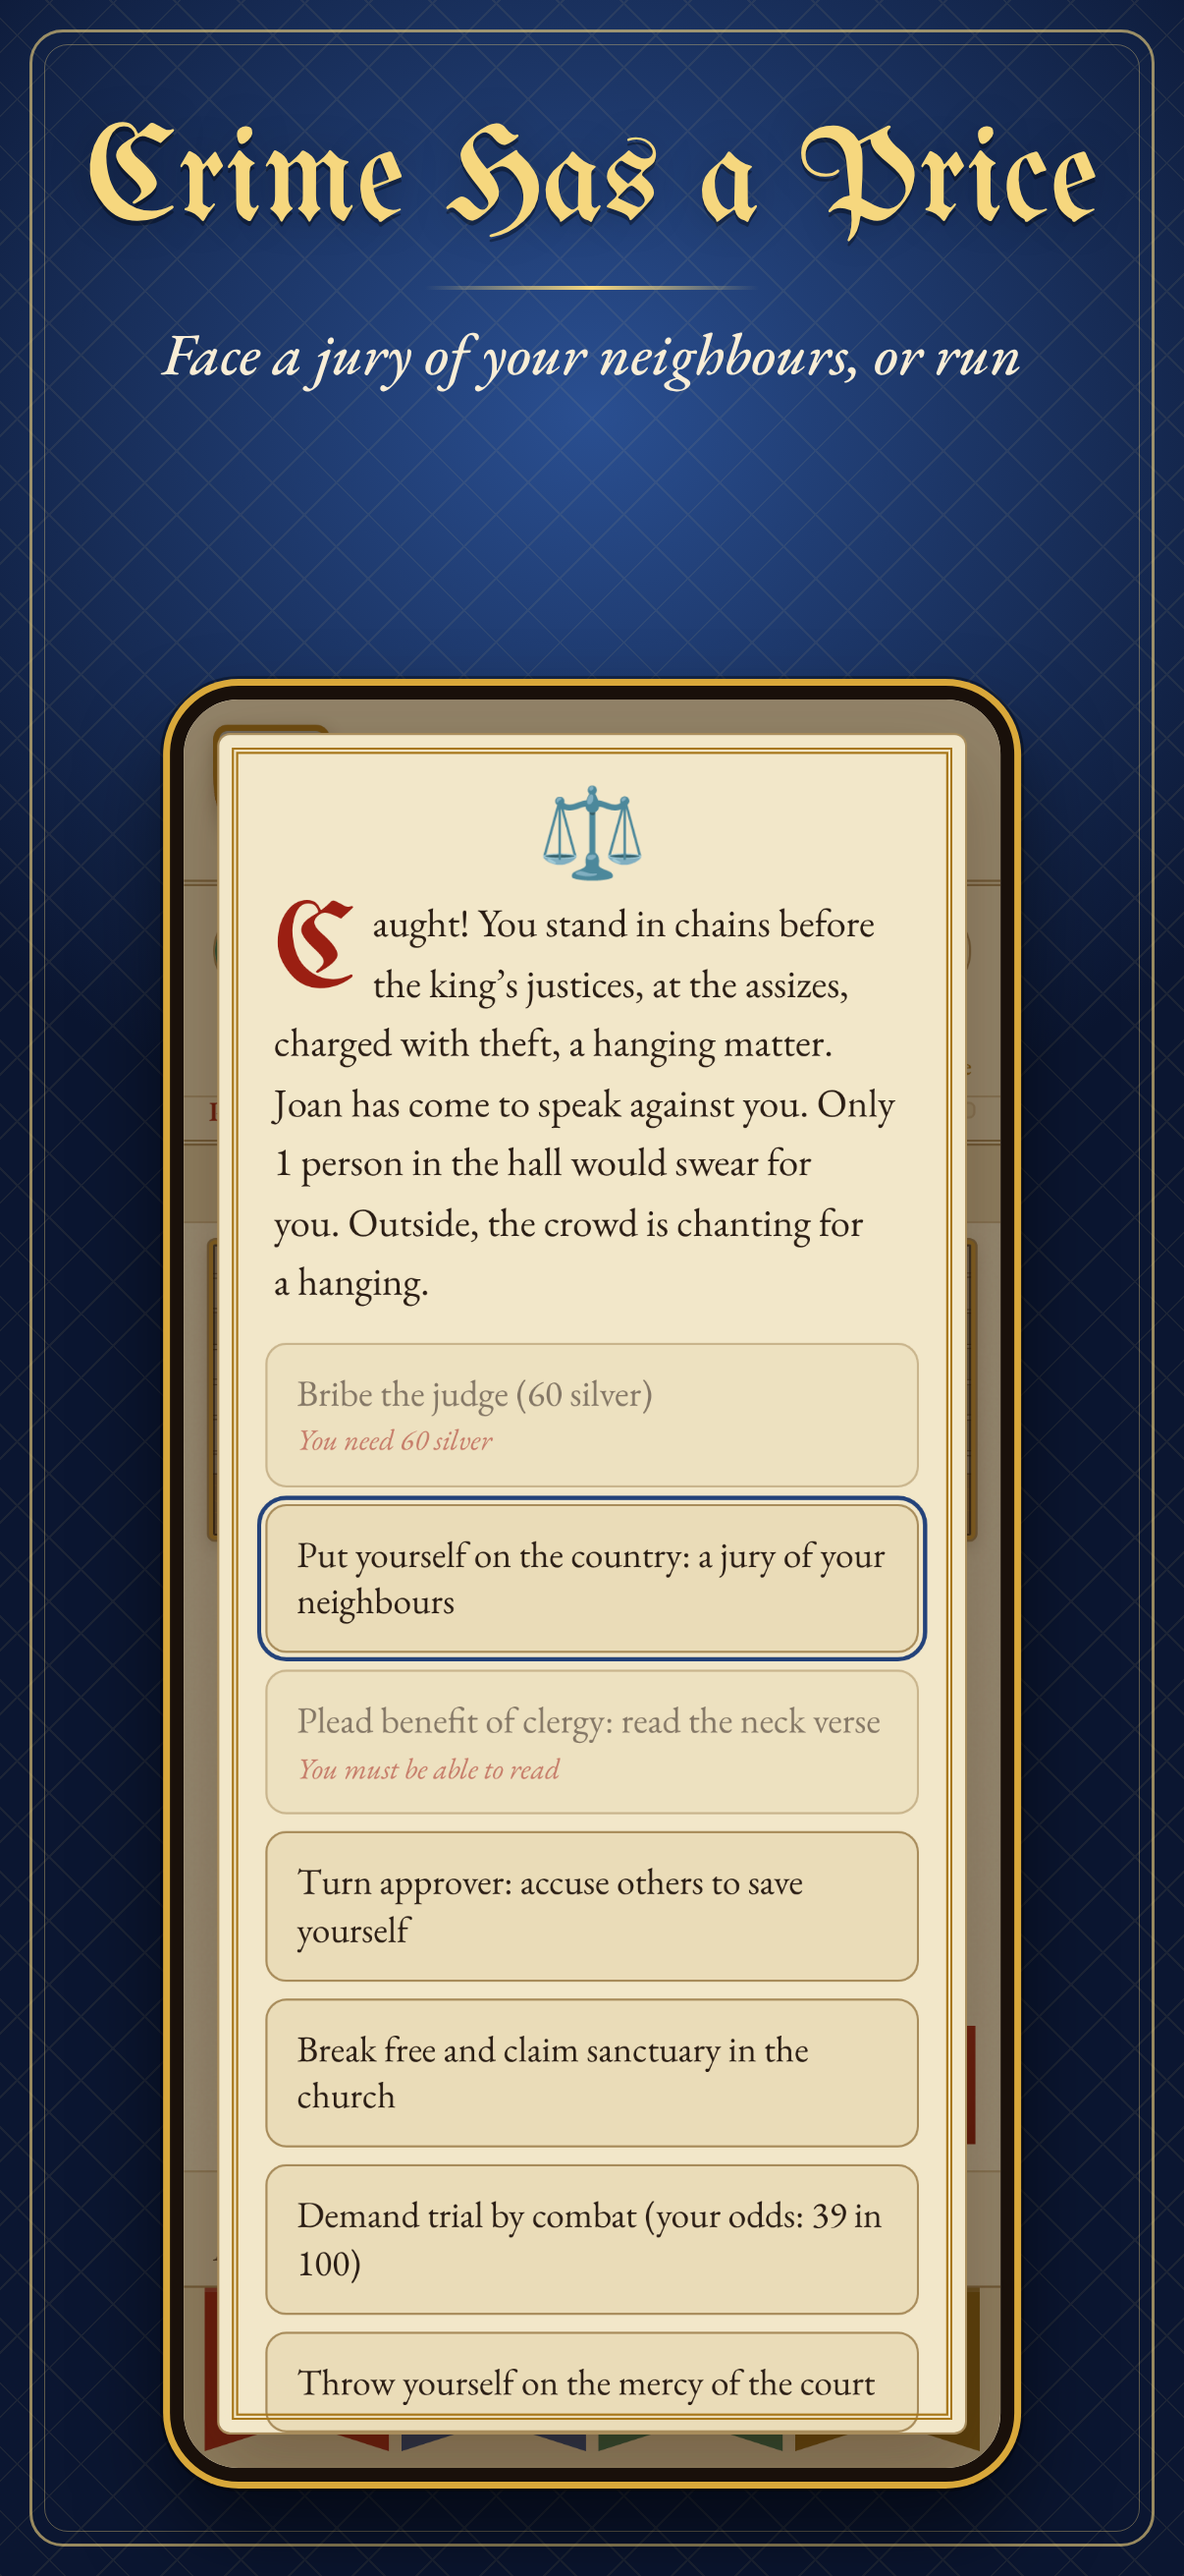
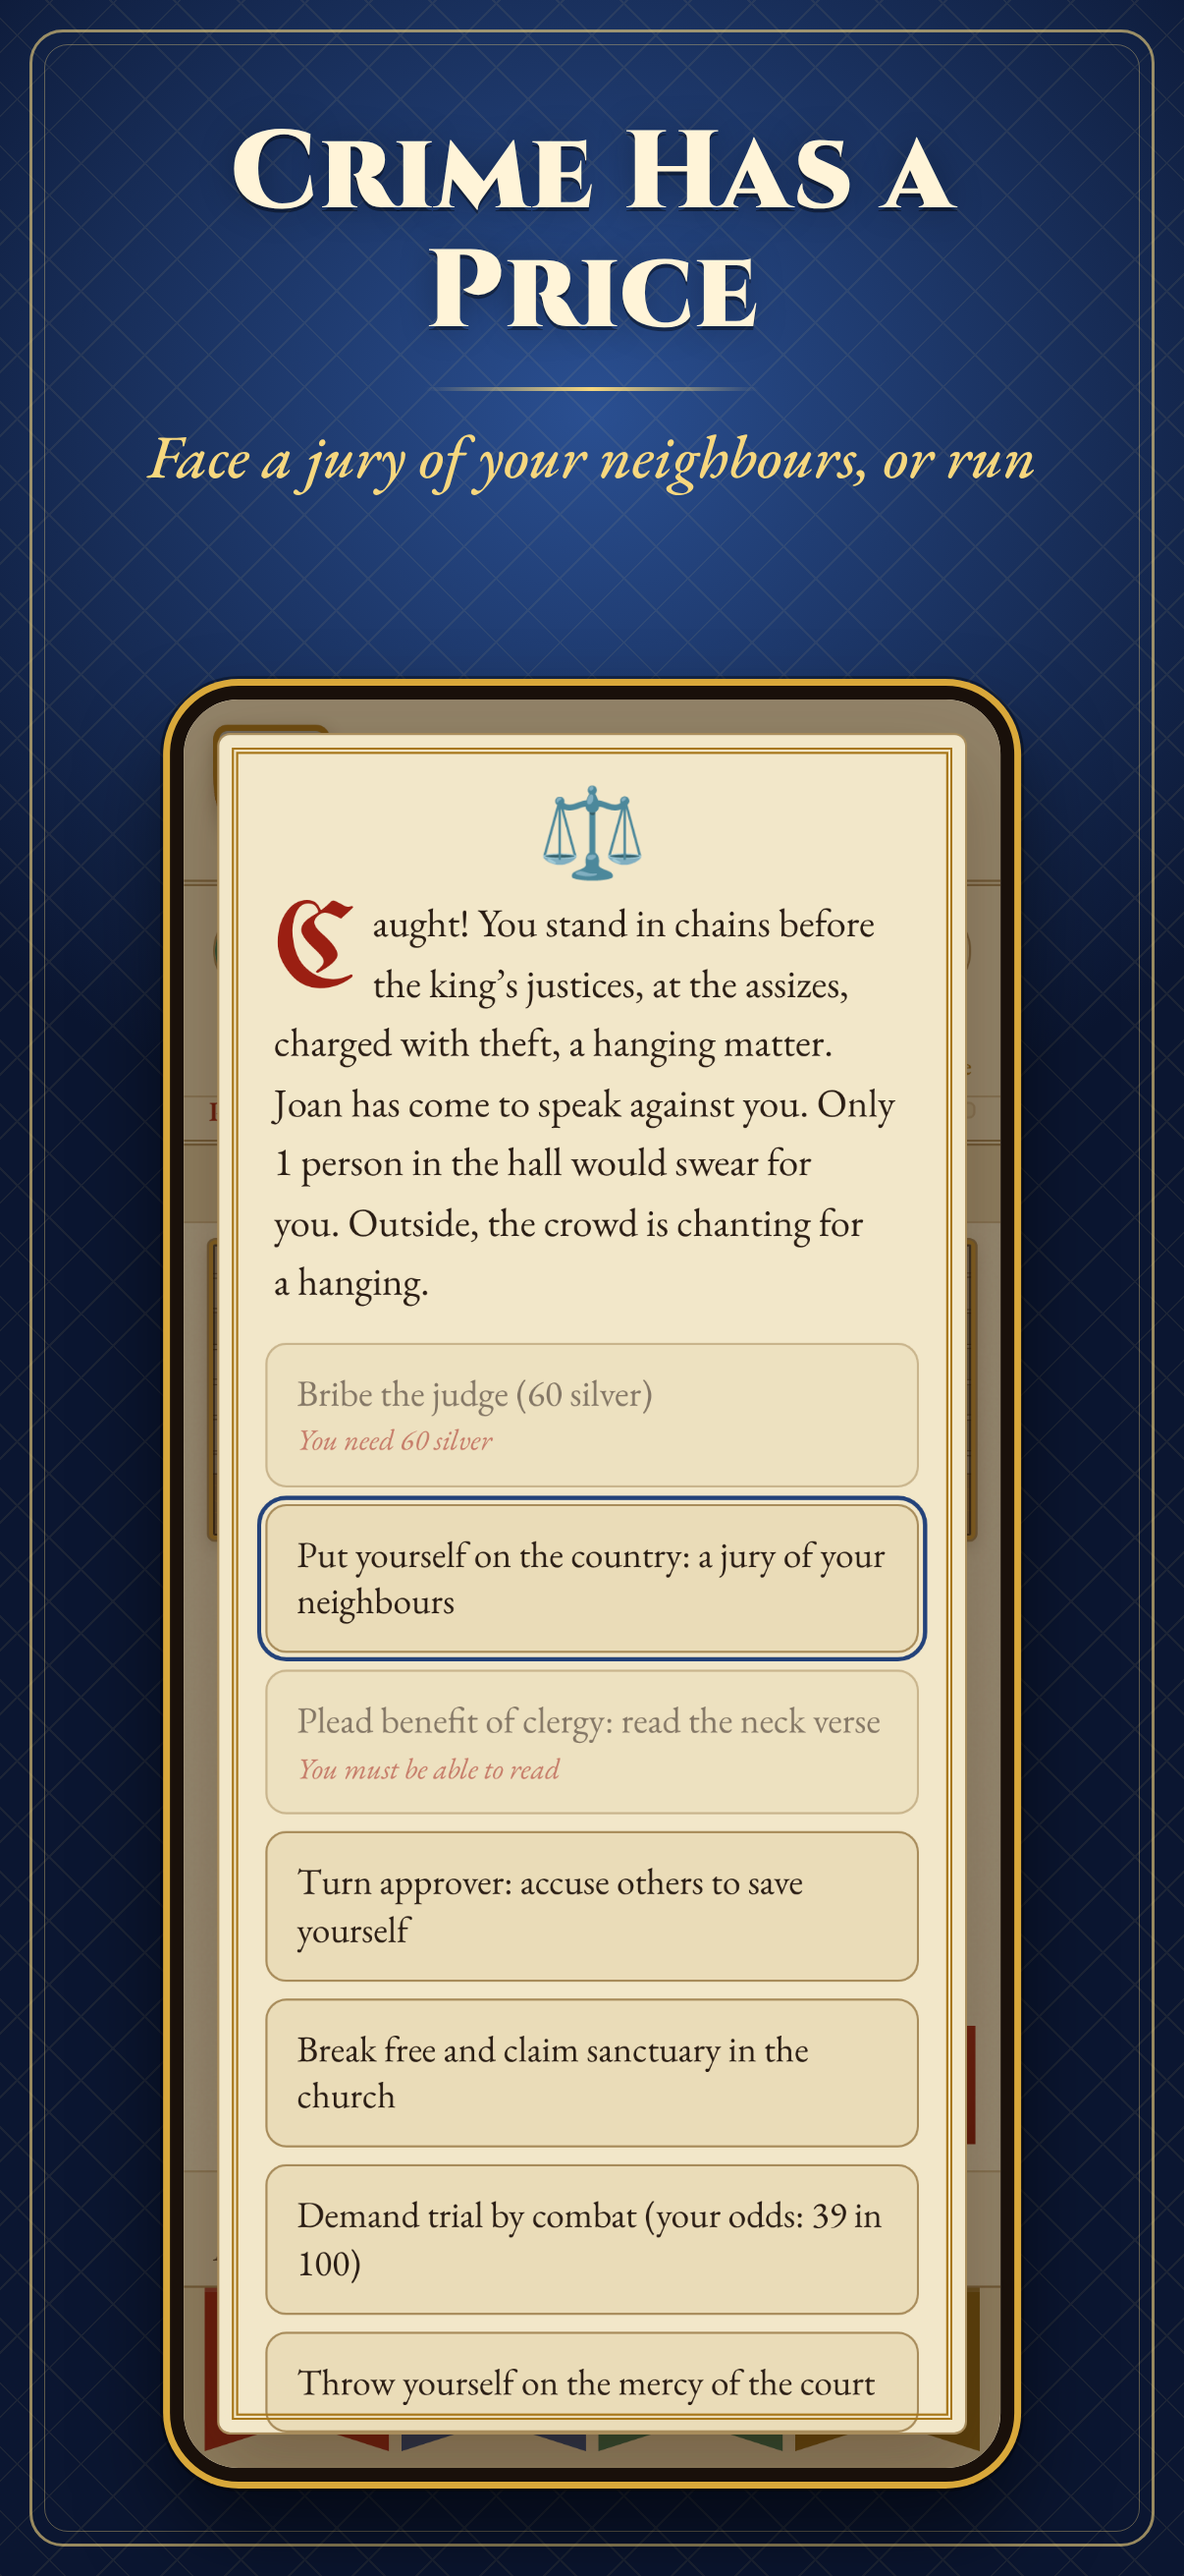
Store screenshots: easy-to-read headlines [skip ci]
The blackletter headlines were hard to read at App Store thumbnail size.
They are now in Cinzel (bold Roman capitals) in bright cream, with the
subtitles in gold Garamond italic.

Claude-Session: https://claude.ai/code/session_01Ng8y7vFwhLArsm3PAF3YVs

Changed region(s): [[0.0614, 0.0309, 0.9204, 0.1854], [0.1227, 0.1236, 0.2454, 0.1854], [0.7977, 0.1236, 0.859, 0.1854]]

diff --git a/store/tools/compose.js b/store/tools/compose.js
@@ -13,7 +13,7 @@ const SHOTS = [
   ['08-dynasty', '8-dynasty', 'Your Dynasty Lives On', 'When you die, carry on as your heir', BLUE],
 ];
 const page = (img, h1, sub, [c1, c2]) => `<!doctype html><html><head><meta charset="utf-8">
-<link href="https://fonts.googleapis.com/css2?family=EB+Garamond:ital,wght@0,500;1,500&family=UnifrakturMaguntia&display=block" rel="stylesheet">
+<link href="https://fonts.googleapis.com/css2?family=Cinzel:wght@700;900&family=EB+Garamond:ital,wght@0,500;1,500&display=block" rel="stylesheet">
 <style>
 html,body{margin:0;width:1206px;height:2622px;overflow:hidden;background:${c2}}
 .bg{position:absolute;inset:0;background:radial-gradient(1100px 1000px at 50% 16%, ${c1}, ${c2} 78%)}
@@ -21,8 +21,8 @@ html,body{margin:0;width:1206px;height:2622px;overflow:hidden;background:${c2}}
 .frame{position:absolute;inset:30px;border:3px solid rgba(246,215,126,.6);border-radius:34px}
 .frame:after{content:'';position:absolute;inset:12px;border:1.5px solid rgba(246,215,126,.35);border-radius:24px}
 .cap{position:absolute;top:118px;left:70px;right:70px;text-align:center}
-h1{font-family:'UnifrakturMaguntia',serif;font-weight:400;font-size:136px;line-height:1.02;color:#f6d77e;margin:0;text-shadow:0 5px 0 rgba(0,0,0,.35),0 0 40px rgba(0,0,0,.25)}
-p{font-family:'EB Garamond',serif;font-style:italic;font-size:60px;line-height:1.18;color:#f8edd6;margin:30px 0 0}
+h1{font-family:'Cinzel',serif;font-weight:900;font-size:112px;line-height:1.08;letter-spacing:.01em;color:#fff4d8;margin:0;text-shadow:0 4px 0 rgba(0,0,0,.4),0 0 36px rgba(0,0,0,.3)}
+p{font-family:'EB Garamond',serif;font-style:italic;font-size:62px;line-height:1.18;color:#f6d77e;margin:30px 0 0}
 .rule{width:340px;height:4px;margin:34px auto 0;background:linear-gradient(90deg,transparent,#f6d77e,transparent)}
 .phone{position:absolute;left:50%;bottom:96px;height:1800px;aspect-ratio:1170/2532;transform:translateX(-50%);border-radius:70px;border:14px solid #19100a;box-shadow:0 0 0 7px #d9a83a,0 0 0 10px rgba(0,0,0,.35),0 50px 90px rgba(0,0,0,.6);overflow:hidden;background:#f2e7c9}
 .phone img{width:100%;height:100%;display:block}
@@ -37,7 +37,7 @@ p{font-family:'EB Garamond',serif;font-style:italic;font-size:60px;line-height:1
     const html = path.resolve('final', out + '.html');
     fs.writeFileSync(html, page(path.resolve('raw', raw + '.png'), h1, sub, col));
     await p.goto('file://' + html); await p.evaluate(() => document.fonts.ready); await p.waitForTimeout(500);
-    const ok = await p.evaluate(() => document.fonts.check('136px UnifrakturMaguntia'));
+    const ok = await p.evaluate(() => document.fonts.check('900 112px Cinzel'));
     await p.screenshot({ path: path.resolve('final', out + '.png') });
     console.log(out, ok ? 'fonts ok' : 'FONT MISSING');
   }
